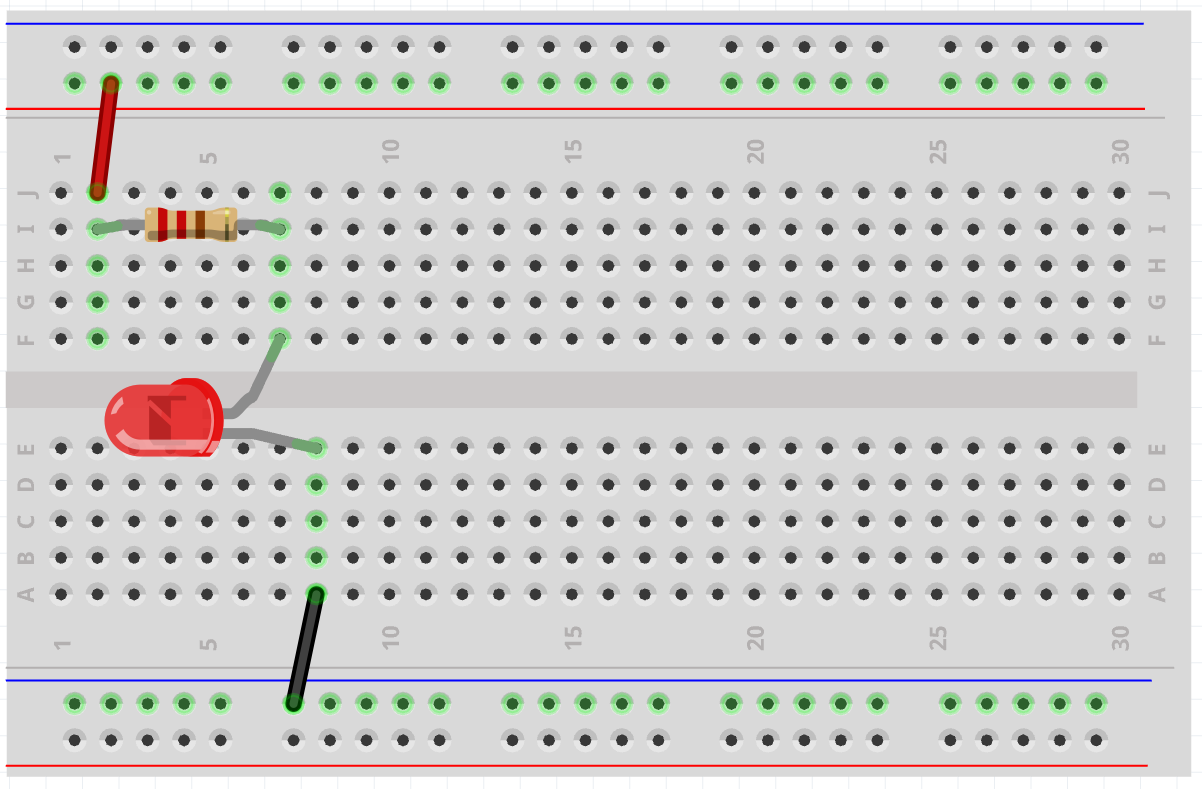
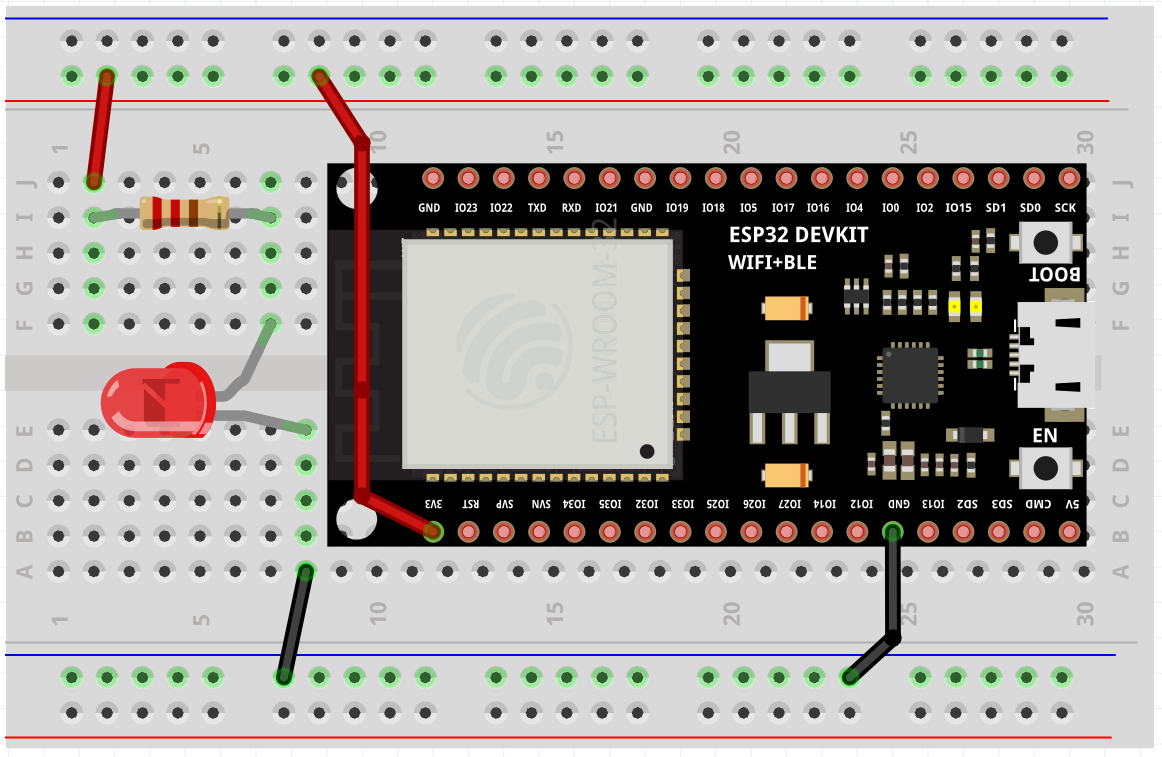
Replace FS-09 #79 main wiring photo with ESP32 on breadboard.
Use the corrected Fritzing diagram that shows ESP32 as the 3V3/GND source, and align captions, steps, and checklist so beginners follow the photo.

diff --git a/database/seeders/Article79Seeder.php b/database/seeders/Article79Seeder.php
@@ -264,8 +264,8 @@ SVG;
   <text x="305" y="208" text-anchor="middle" font-family="system-ui,sans-serif" font-size="14" font-weight="700" fill="#C62828">= − (katode)</text>
   <rect x="400" y="50" width="290" height="130" fill="#E8F5E9" stroke="#1a1a1a" stroke-width="2" rx="6"/>
   <text x="545" y="95" text-anchor="middle" font-family="system-ui,sans-serif" font-size="16" font-weight="700">Resistor 220Ω</text>
-  <text x="545" y="125" text-anchor="middle" font-family="system-ui,sans-serif" font-size="14" fill="#4A5568">kaki panjang LED ke baris G kolom 7</text>
-  <text x="545" y="152" text-anchor="middle" font-family="system-ui,sans-serif" font-size="14" fill="#4A5568">kaki pendek LED ke baris E kolom 7</text>
+  <text x="545" y="125" text-anchor="middle" font-family="system-ui,sans-serif" font-size="14" fill="#4A5568">kaki panjang LED = ke sisi resistor</text>
+  <text x="545" y="152" text-anchor="middle" font-family="system-ui,sans-serif" font-size="14" fill="#4A5568">kaki pendek LED = ke jalur GND</text>
 </svg>
 <figcaption style="font-size:0.85rem;margin-top:0.5rem;color:#4A5568;">Polaritas LED — cocokkan sebelum dicolok ke breadboard (buatan Koding Indonesia).</figcaption>
 </figure>
@@ -288,8 +288,8 @@ SVG;
   <text x="305" y="208" text-anchor="middle" font-family="system-ui,sans-serif" font-size="14" font-weight="700" fill="#C62828">= − (cathode)</text>
   <rect x="400" y="50" width="290" height="130" fill="#E8F5E9" stroke="#1a1a1a" stroke-width="2" rx="6"/>
   <text x="545" y="95" text-anchor="middle" font-family="system-ui,sans-serif" font-size="16" font-weight="700">220Ω resistor</text>
-  <text x="545" y="125" text-anchor="middle" font-family="system-ui,sans-serif" font-size="14" fill="#4A5568">long LED leg in row G, column 7</text>
-  <text x="545" y="152" text-anchor="middle" font-family="system-ui,sans-serif" font-size="14" fill="#4A5568">short LED leg in row E, column 7</text>
+  <text x="545" y="125" text-anchor="middle" font-family="system-ui,sans-serif" font-size="14" fill="#4A5568">long LED leg = toward resistor</text>
+  <text x="545" y="152" text-anchor="middle" font-family="system-ui,sans-serif" font-size="14" fill="#4A5568">short LED leg = toward GND path</text>
 </svg>
 <figcaption style="font-size:0.85rem;margin-top:0.5rem;color:#4A5568;">LED polarity — match this before plugging into the breadboard (by Koding Indonesia).</figcaption>
 </figure>
@@ -312,7 +312,7 @@ SVG;
   <line x1="290" y1="65" x2="330" y2="65" stroke="#1565C0" stroke-width="3"/>
   <rect x="330" y="45" width="70" height="40" rx="6" fill="#ECEFF1" stroke="#1a1a1a" stroke-width="2"/>
   <text x="365" y="70" text-anchor="middle" font-family="system-ui,sans-serif" font-size="13" font-weight="700">GND</text>
-  <text x="360" y="108" text-anchor="middle" font-family="system-ui,sans-serif" font-size="12" fill="#4A5568">Di breadboard: kolom 2 → 7 · Buatan Koding Indonesia</text>
+  <text x="360" y="108" text-anchor="middle" font-family="system-ui,sans-serif" font-size="12" fill="#4A5568">Di breadboard: ikuti gambar utama (ESP32 + LED) · Buatan Koding Indonesia</text>
   <defs><marker id="arr" markerWidth="8" markerHeight="8" refX="6" refY="3" orient="auto"><path d="M0,0 L6,3 L0,6 Z" fill="#1565C0"/></marker></defs>
 </svg>
 <figcaption style="font-size:0.85rem;margin-top:0.5rem;color:#4A5568;">Alur listrik yang akan kamu rakit: <strong>3V3 → resistor 220Ω → LED → GND</strong>. Diagram breadboard lengkap ada di bawah.</figcaption>
@@ -336,7 +336,7 @@ SVG;
   <line x1="290" y1="65" x2="330" y2="65" stroke="#1565C0" stroke-width="3"/>
   <rect x="330" y="45" width="70" height="40" rx="6" fill="#ECEFF1" stroke="#1a1a1a" stroke-width="2"/>
   <text x="365" y="70" text-anchor="middle" font-family="system-ui,sans-serif" font-size="13" font-weight="700">GND</text>
-  <text x="360" y="108" text-anchor="middle" font-family="system-ui,sans-serif" font-size="12" fill="#4A5568">On breadboard: columns 2 → 7 · By Koding Indonesia</text>
+  <text x="360" y="108" text-anchor="middle" font-family="system-ui,sans-serif" font-size="12" fill="#4A5568">On breadboard: follow the main diagram (ESP32 + LED) · By Koding Indonesia</text>
   <defs><marker id="arr2" markerWidth="8" markerHeight="8" refX="6" refY="3" orient="auto"><path d="M0,0 L6,3 L0,6 Z" fill="#1565C0"/></marker></defs>
 </svg>
 <figcaption style="font-size:0.85rem;margin-top:0.5rem;color:#4A5568;">The path you will build: <strong>3V3 → 220Ω resistor → LED → GND</strong>. Full breadboard diagram below.</figcaption>
@@ -348,8 +348,11 @@ SVG;
     {
         return <<<'HTML'
 <figure style="margin:1.5rem 0;max-width:100%">
-  <img src="/images/fsiot/fs09-led-breadboard-wiring.png" width="1200" height="900" alt="Diagram wiring LED dan resistor di breadboard — jumper merah rail plus ke kolom 2, resistor kolom 2 ke 7, LED di kolom 7, jumper hitam ke rail minus" loading="eager" style="width:100%;height:auto;max-height:520px;object-fit:contain;border:2.5px solid #1a1a1a;border-radius:8px;background:#fff;padding:0.5rem">
-  <figcaption style="font-size:0.85rem;margin-top:0.5rem;color:#4A5568;"><strong>Gambar utama</strong> — ikuti foto rangkaian ini. Jumper merah dari rail + ke <strong>kolom 2</strong>; resistor <strong>kolom 2 → 7</strong>; LED kaki panjang baris G kolom 7, pendek baris E kolom 7; jumper hitam kolom 7 ke rail − (buatan Koding Indonesia).</figcaption>
+  <img src="/images/fsiot/fs09-led-breadboard-wiring.png" width="1162" height="757" alt="ESP32 di breadboard menyalakan LED lewat resistor — jumper 3V3 ke rail plus, resistor, LED, lalu kembali ke GND" loading="eager" style="width:100%;height:auto;max-height:560px;object-fit:contain;border:2.5px solid #1a1a1a;border-radius:8px;background:#fff;padding:0.5rem">
+  <figcaption style="font-size:0.85rem;margin-top:0.5rem;color:#4A5568;">
+    <strong>Gambar utama</strong> — ESP32 dipasang di breadboard (sumber <strong>3V3</strong> &amp; <strong>GND</strong>). Alur: jumper merah <strong>3V3 → rail +</strong> → jumper ke <strong>kolom 2</strong> → <strong>resistor</strong> → kaki panjang LED → kaki pendek LED → jumper hitam ke <strong>rail −</strong> → <strong>GND</strong>. Ikuti foto; nomor kolom boleh digeser asalkan urutan sama.
+    <br>Sumber gambar: diagram rangkaian buatan Koding Indonesia (FS-09).
+  </figcaption>
 </figure>
 HTML;
     }
@@ -358,8 +361,11 @@ HTML;
     {
         return <<<'HTML'
 <figure style="margin:1.5rem 0;max-width:100%">
-  <img src="/images/fsiot/fs09-led-breadboard-wiring.png" width="1200" height="900" alt="LED and resistor breadboard wiring — red jumper from + rail to column 2, resistor column 2 to 7, LED in column 7, black jumper to − rail" loading="eager" style="width:100%;height:auto;max-height:520px;object-fit:contain;border:2.5px solid #1a1a1a;border-radius:8px;background:#fff;padding:0.5rem">
-  <figcaption style="font-size:0.85rem;margin-top:0.5rem;color:#4A5568;"><strong>Main diagram</strong> — follow this wiring photo. Red jumper from + rail to <strong>column 2</strong>; resistor <strong>column 2 → 7</strong>; LED long leg row G column 7, short leg row E column 7; black jumper column 7 to − rail (by Koding Indonesia).</figcaption>
+  <img src="/images/fsiot/fs09-led-breadboard-wiring.png" width="1162" height="757" alt="ESP32 on a breadboard powering an LED through a resistor — 3V3 to + rail, resistor, LED, then back to GND" loading="eager" style="width:100%;height:auto;max-height:560px;object-fit:contain;border:2.5px solid #1a1a1a;border-radius:8px;background:#fff;padding:0.5rem">
+  <figcaption style="font-size:0.85rem;margin-top:0.5rem;color:#4A5568;">
+    <strong>Main diagram</strong> — ESP32 sits on the breadboard (source of <strong>3V3</strong> &amp; <strong>GND</strong>). Path: red jumper <strong>3V3 → + rail</strong> → jumper to <strong>column 2</strong> → <strong>resistor</strong> → LED long leg → LED short leg → black jumper to <strong>− rail</strong> → <strong>GND</strong>. Follow the photo; column numbers can shift if the order matches.
+    <br>Image source: circuit diagram by Koding Indonesia (FS-09).
+  </figcaption>
 </figure>
 HTML;
     }
@@ -385,7 +391,7 @@ HTML;
 <ol>
 <li><strong>Kumpulkan alat</strong> di meja (daftar di bawah) — belum colok USB.</li>
 <li><strong>Baca + lihat gambar</strong> sampai bagian wiring step-by-step.</li>
-<li><strong>Rakit di meja</strong> ikuti gambar utama (kolom 2 → 7).</li>
+<li><strong>Rakit di meja</strong> ikuti gambar utama (ESP32 di breadboard).</li>
 <li><strong>Colok USB</strong> → LED menyala → latihan cabut jumper.</li>
 <li><strong>Centang checklist 10/10</strong> di browser (widget interaktif di bawah).</li>
 </ol>
@@ -395,8 +401,8 @@ HTML;
 <p><strong>Awam — urutan meja kerja:</strong> jangan langsung colok kabel. Ikuti urutan di bawah supaya tidak bingung.</p>
 <ol>
 <li><strong>Cabut USB</strong> dari ESP32 (wajib sebelum menyentuh jumper).</li>
-<li>Letakkan <strong>breadboard</strong> di meja datar, ESP32 di sampingnya.</li>
-<li>Siapkan <strong>3 jumper</strong>: merah (3V3), hitam (GND), satu warna lain (sinyal).</li>
+<li>Letakkan <strong>breadboard</strong> di meja datar. ESP32 boleh dipasang di breadboard seperti gambar utama (atau di samping dulu, lalu sambungkan jumper).</li>
+<li>Siapkan <strong>jumper</strong>: minimal merah (3V3), hitam (GND), plus jumper lain sesuai gambar utama.</li>
 <li>Ambil <strong>LED 5mm</strong> + <strong>resistor 220Ω</strong> (330Ω juga boleh).</li>
 <li>Buka pinout board — cari tulisan <strong>3V3</strong> dan <strong>GND</strong>.</li>
 </ol>
@@ -418,15 +424,16 @@ HTML;
 {$flow}
 {$main}
 
-<h2>Wiring step-by-step</h2>
-<p><strong>Awam:</strong> ikuti <strong>gambar utama</strong> di atas. Nomor kolom (2, 7) boleh digeser — yang penting <strong>urutan</strong> sama.</p>
+<h2>Wiring langkah demi langkah</h2>
+<p><strong>Awam:</strong> ikuti <strong>gambar utama</strong> di atas (ada ESP32-nya). Nomor kolom boleh digeser — yang penting <strong>urutan</strong> listrik sama: 3V3 → resistor → LED → GND.</p>
 <ol>
-<li><strong>Power rail:</strong> jumper merah dari pin <strong>3V3</strong> ESP32 ke rail merah (+). Jumper hitam dari <strong>GND</strong> ke rail biru (-).</li>
+<li><strong>Pasang ESP32</strong> di breadboard (melintasi parit) seperti foto, atau letakkan di samping lalu sambungkan jumper ke rail.</li>
+<li><strong>Power rail:</strong> jumper merah dari pin <strong>3V3</strong> ke rail merah (+). Jumper hitam dari pin <strong>GND</strong> ke rail biru (−).</li>
 <li><strong>Kolom 2:</strong> jumper merah dari rail merah (+) ke lubang di <strong>kolom 2</strong> (misalnya baris J). <em>Ini kabel yang nanti dicabut untuk mematikan LED.</em></li>
-<li><strong>Resistor:</strong> satu kaki di <strong>kolom 2</strong>, kaki lain di <strong>kolom 7</strong> (satu baris, misalnya baris I).</li>
-<li><strong>LED:</strong> kaki <strong>panjang</strong> di <strong>baris G kolom 7</strong> (bersama kaki resistor). Kaki <strong>pendek</strong> di <strong>baris E kolom 7</strong>.</li>
-<li><strong>Kolom 7 ke GND:</strong> jumper hitam dari <strong>baris A kolom 7</strong> ke rail biru (-).</li>
-<li><strong>Cek visual:</strong> tidak ada kabel merah menyentuh hitam langsung (short). LED tidak terbalik.</li>
+<li><strong>Resistor:</strong> satu kaki di <strong>kolom 2</strong>, kaki lain di kolom menuju kaki panjang LED (lihat foto — biasanya beberapa kolom di sebelahnya).</li>
+<li><strong>LED:</strong> kaki <strong>panjang (+)</strong> ke sisi resistor, kaki <strong>pendek (−)</strong> ke jalur yang menuju GND. Polaritas harus benar.</li>
+<li><strong>Ke GND:</strong> jumper hitam dari kaki pendek LED (atau kolomnya) ke rail biru (−).</li>
+<li><strong>Cek visual:</strong> tidak ada kabel merah menyentuh hitam langsung (short). LED tidak terbalik. Rail + hanya dari 3V3, rail − hanya ke GND.</li>
 <li><strong>Colok USB</strong> — LED harus menyala lembut/terang.</li>
 <li><strong>Latihan matikan:</strong> cabut jumper merah di kolom 2 dari rail + — LED padam. Pasang lagi — menyala.</li>
 </ol>
@@ -438,9 +445,9 @@ HTML;
 <li>USB sudah dicabut sebelum mulai wiring</li>
 <li>Rail merah (+) terhubung ke pin 3V3 ESP32</li>
 <li>Rail biru (-) terhubung ke pin GND ESP32</li>
-<li>Resistor 220 ohm (atau 330 ohm) terpasang antara kolom 2 dan 7</li>
-<li>LED kaki panjang baris G kolom 7, pendek baris E kolom 7</li>
-<li>Jumper baris A kolom 7 menuju rail GND</li>
+<li>Resistor 220 ohm (atau 330 ohm) terpasang di jalur 3V3 → LED (lihat gambar utama)</li>
+<li>LED kaki panjang ke sisi resistor, kaki pendek menuju GND</li>
+<li>Jumper dari kaki pendek LED menuju rail GND</li>
 <li>Tidak ada short antara 3V3 dan GND</li>
 <li>Colok USB — LED menyala</li>
 <li>Cabut jumper merah di kolom 2 — LED mati</li>
@@ -485,7 +492,7 @@ HTML;
 <ol>
 <li><strong>Gather tools</strong> on your desk (list below) — do not plug USB yet.</li>
 <li><strong>Read + study images</strong> through the step-by-step wiring section.</li>
-<li><strong>Build on the desk</strong> following the main diagram (columns 2 → 7).</li>
+<li><strong>Build on the desk</strong> following the main diagram (ESP32 on the breadboard).</li>
 <li><strong>Plug USB</strong> → LED lights → practice unplugging the jumper.</li>
 <li><strong>Tick the 10/10 checklist</strong> in the browser (interactive widget below).</li>
 </ol>
@@ -495,8 +502,8 @@ HTML;
 <p><strong>Beginner — desk order:</strong> do not plug wires in randomly. Follow the order below so you do not get lost.</p>
 <ol>
 <li><strong>Unplug USB</strong> from the ESP32 (required before touching jumpers).</li>
-<li>Place the <strong>breadboard</strong> on a flat desk, ESP32 beside it.</li>
-<li>Prepare <strong>3 jumpers</strong>: red (3V3), black (GND), one other color.</li>
+<li>Place the <strong>breadboard</strong> on a flat desk. The ESP32 can sit on the breadboard like the main diagram (or beside it first, then connect jumpers).</li>
+<li>Prepare <strong>jumpers</strong>: at least red (3V3), black (GND), plus others as in the main diagram.</li>
 <li>Grab a <strong>5mm LED</strong> + <strong>220Ω resistor</strong> (330Ω is fine too).</li>
 <li>Open the board pinout — find <strong>3V3</strong> and <strong>GND</strong>.</li>
 </ol>
@@ -519,14 +526,15 @@ HTML;
 {$main}
 
 <h2>Step-by-step wiring</h2>
-<p><strong>Beginner:</strong> follow the <strong>main diagram</strong> above. Column numbers (2, 7) can shift — keep the <strong>order</strong> the same.</p>
+<p><strong>Beginner:</strong> follow the <strong>main diagram</strong> above (it shows the ESP32). Column numbers can shift — keep the <strong>electrical order</strong>: 3V3 → resistor → LED → GND.</p>
 <ol>
-<li><strong>Power rails:</strong> red jumper from ESP32 <strong>3V3</strong> to red (+) rail. Black jumper from <strong>GND</strong> to blue (-) rail.</li>
-<li><strong>Column 2:</strong> red jumper from red (+) rail to a hole in <strong>column 2</strong> (e.g. row J). <em>This wire gets unplugged to turn the LED off.</em></li>
-<li><strong>Resistor:</strong> one leg in <strong>column 2</strong>, the other in <strong>column 7</strong> (same row, e.g. row I).</li>
-<li><strong>LED:</strong> <strong>long</strong> leg in <strong>row G column 7</strong> (with the resistor). <strong>Short</strong> leg in <strong>row E column 7</strong>.</li>
-<li><strong>Column 7 to GND:</strong> black jumper from <strong>row A column 7</strong> to blue (-) rail.</li>
-<li><strong>Visual check:</strong> no red wire touching black directly (short). LED not reversed.</li>
+<li><strong>Mount the ESP32</strong> on the breadboard (across the ditch) like the photo, or place it beside and jumper to the rails.</li>
+<li><strong>Power rails:</strong> red jumper from <strong>3V3</strong> to the red (+) rail. Black jumper from <strong>GND</strong> to the blue (−) rail.</li>
+<li><strong>Column 2:</strong> red jumper from the red (+) rail to a hole in <strong>column 2</strong> (e.g. row J). <em>This wire gets unplugged to turn the LED off.</em></li>
+<li><strong>Resistor:</strong> one leg in <strong>column 2</strong>, the other toward the LED long leg (see the photo — usually a few columns over).</li>
+<li><strong>LED:</strong> <strong>long (+)</strong> leg toward the resistor, <strong>short (−)</strong> leg toward the path to GND. Polarity must be correct.</li>
+<li><strong>To GND:</strong> black jumper from the LED short leg (or its column) to the blue (−) rail.</li>
+<li><strong>Visual check:</strong> no red wire touching black directly (short). LED not reversed. + rail only from 3V3, − rail only to GND.</li>
 <li><strong>Plug USB</strong> — the LED should glow.</li>
 <li><strong>Turn-off practice:</strong> unplug the red jumper at column 2 from the + rail — LED off. Plug back — on.</li>
 </ol>
@@ -538,9 +546,9 @@ HTML;
 <li>USB unplugged before wiring</li>
 <li>Red (+) rail connected to ESP32 3V3 pin</li>
 <li>Blue (-) rail connected to ESP32 GND pin</li>
-<li>220 ohm (or 330 ohm) resistor between columns 2 and 7</li>
-<li>LED long leg row G column 7, short leg row E column 7</li>
-<li>Jumper from row A column 7 to GND rail</li>
+<li>220 ohm (or 330 ohm) resistor in the 3V3 → LED path (see main diagram)</li>
+<li>LED long leg toward resistor, short leg toward GND</li>
+<li>Jumper from LED short leg to GND rail</li>
 <li>No short between 3V3 and GND</li>
 <li>Plug USB — LED lights</li>
 <li>Unplug red jumper at column 2 — LED off</li>

diff --git a/scripts/audit-article79.php b/scripts/audit-article79.php
@@ -56,7 +56,8 @@ check('breadboard wiring today ID', str_contains($id, 'Wiring step-by-step') || 
 check('breadboard wiring today EN', str_contains($en, 'Step-by-step wiring') || str_contains($en, 'wiring'));
 check('3V3 pin power ID', str_contains($id, 'pin 3V3') || str_contains($id, 'pin <strong>3V3</strong>'));
 check('3V3 pin power EN', str_contains($en, '3V3 pin') || str_contains($en, '<strong>3V3</strong>'));
-check('column 2 7 both', str_contains($id, 'kolom 2') && str_contains($id, 'kolom 7') && str_contains($en, 'column 2') && str_contains($en, 'column 7'));
+check('column 2 both', str_contains($id, 'kolom 2') && str_contains($en, 'column 2'));
+check('ESP32 on breadboard caption', str_contains($id, 'ESP32 dipasang di breadboard') && str_contains($en, 'ESP32 sits on the breadboard'));
 check('kit images', str_contains($id, 'kit-breadboard.jpg') && str_contains($id, 'kit-jumper-wires.jpg') && str_contains($id, 'kit-led-5mm.jpg') && str_contains($id, 'kit-resistor.jpg'));
 check('pinout photo', str_contains($id, 'esp32-devkitc-1-pinlayout.jpg') && str_contains($en, 'esp32-devkitc-1-pinlayout.jpg'));
 check('find 2 pins caption', str_contains($id, 'Cari 2 pin ini di board kamu') && str_contains($en, 'Find these 2 pins on your board'));

diff --git a/app/Http/Controllers/DeployController.php b/app/Http/Controllers/DeployController.php
@@ -6592,7 +6592,7 @@ class DeployController extends Controller
             'Cari 2 pin ini di board kamu',
             'cara pakai artikel ini',
             'kolom 2',
-            'kolom 7',
+            'ESP32 dipasang di breadboard',
             'fsiot-led-circuit-checklist',
             'FS-10',
             '/belajar/fullstack-iot',
@@ -6623,7 +6623,7 @@ class DeployController extends Controller
             'Main diagram',
             'how to use this article',
             'column 2',
-            'column 7',
+            'ESP32 sits on the breadboard',
             'fsiot-led-circuit-checklist',
             'FS-10',
             'no sketch upload',
